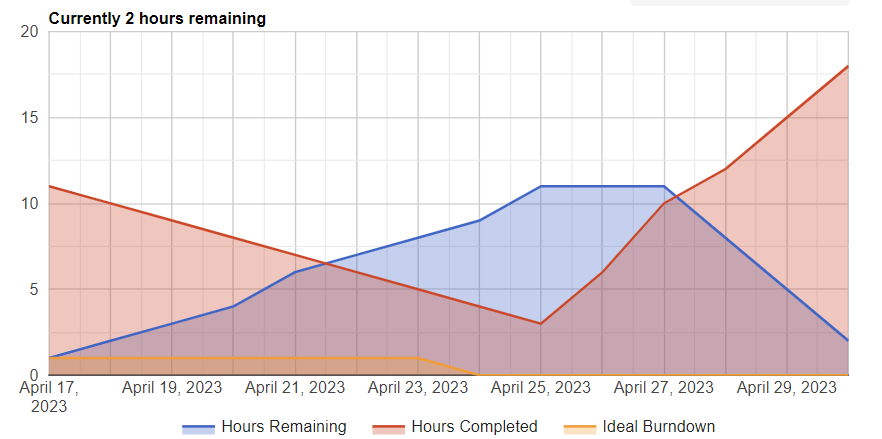
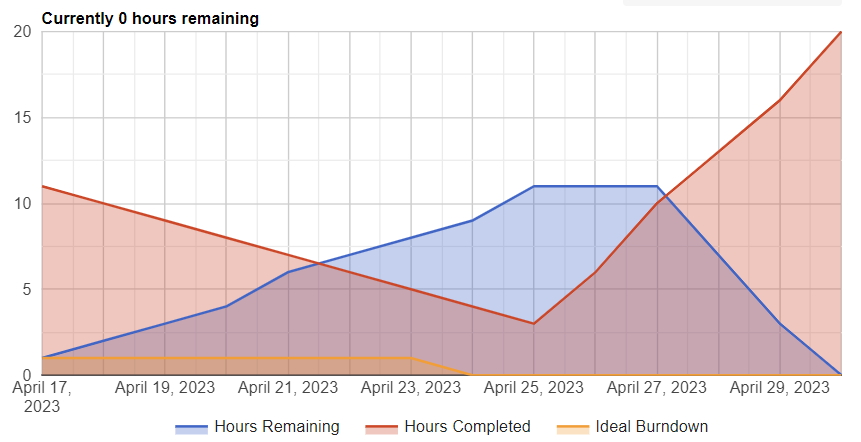
task & burndown update

diff --git a/readme.md b/readme.md
@@ -8,12 +8,12 @@ User Stories:
 | Task                              | Story | Duration | Priority | Complexity | Lead Person |
 |:---------------------------------:|:-----:|:--------:|:--------:|:----------:|:-----------:|
 | write user stories                |       | .5hr     | 2        | 1          | Akshada     |
-| add events through the website    | 2     |          | 5        | 7          | Emma        |
+| add events through the website    | 2     |   2hrs   | 5        | 7          | Emma        |
 | editable inventory page data      | 1     |   1hr    | 10       | 8          | Inaki       |
 | event page design                 | 2     |   1.5hrs | 10       | 8          | Inaki       |
 | add delete buttons to dynamic content | 1&2 |  1hr   | 7        | 6          | Emma        |
 | add modals for inventory and member pages | 1  | 2hrs| 4        | 5          | Akshada     |
-| reduce picture sizes              | 2     |          | 3        | 3          | Lajzoo      |
+| reduce picture sizes              | 2     |   1hr    | 3        | 3          | Lajzoo      |
 | meet the team page                | 2     | 5.5hrs   | 7        | 10         | Akshada     |
 
 
